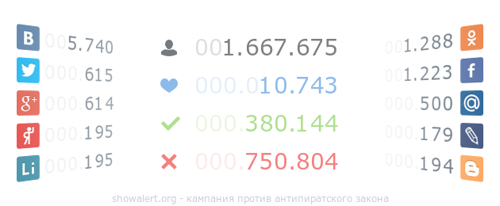
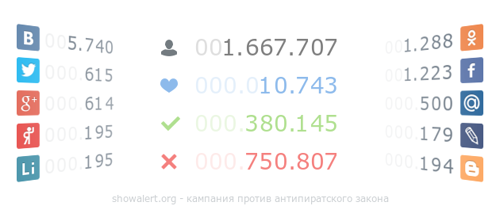
update statistics files for plugins

Changed region(s): [[0.57, 0.1748, 0.69, 0.2913], [0.63, 0.7282, 0.69, 0.8155], [0.63, 0.5534, 0.69, 0.6408]]

diff --git a/votes.js b/votes.js
@@ -1,1 +1,1 @@
-window.lk.votes(31032)
+window.lk.votes(31033)
